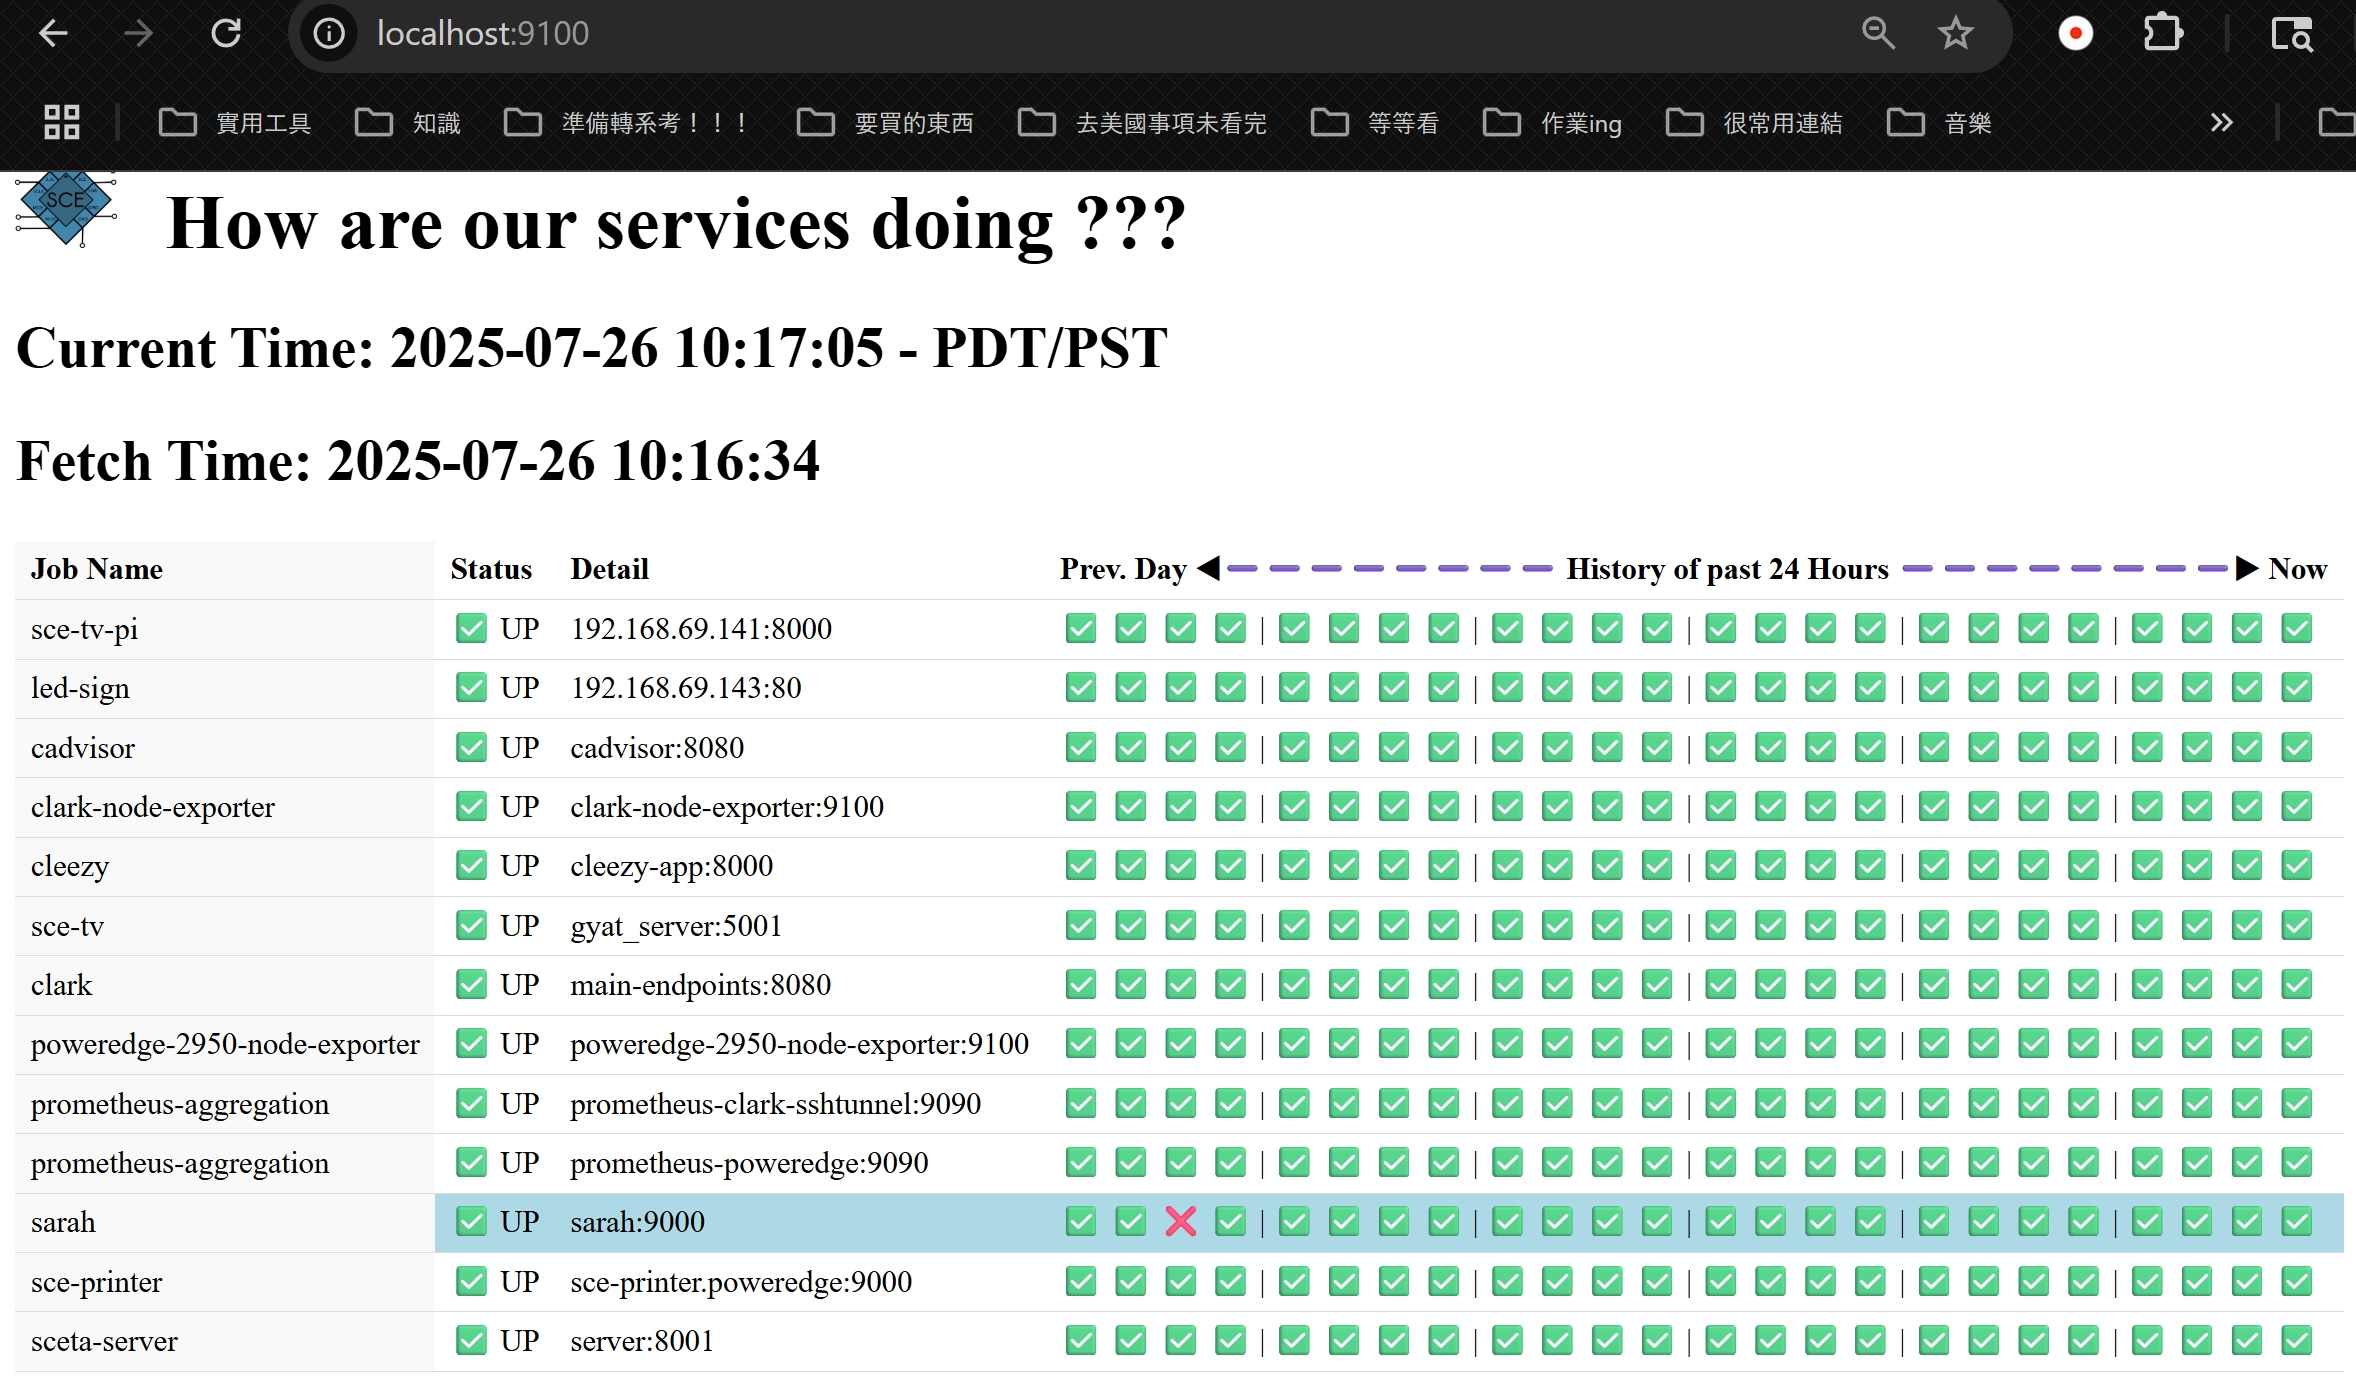
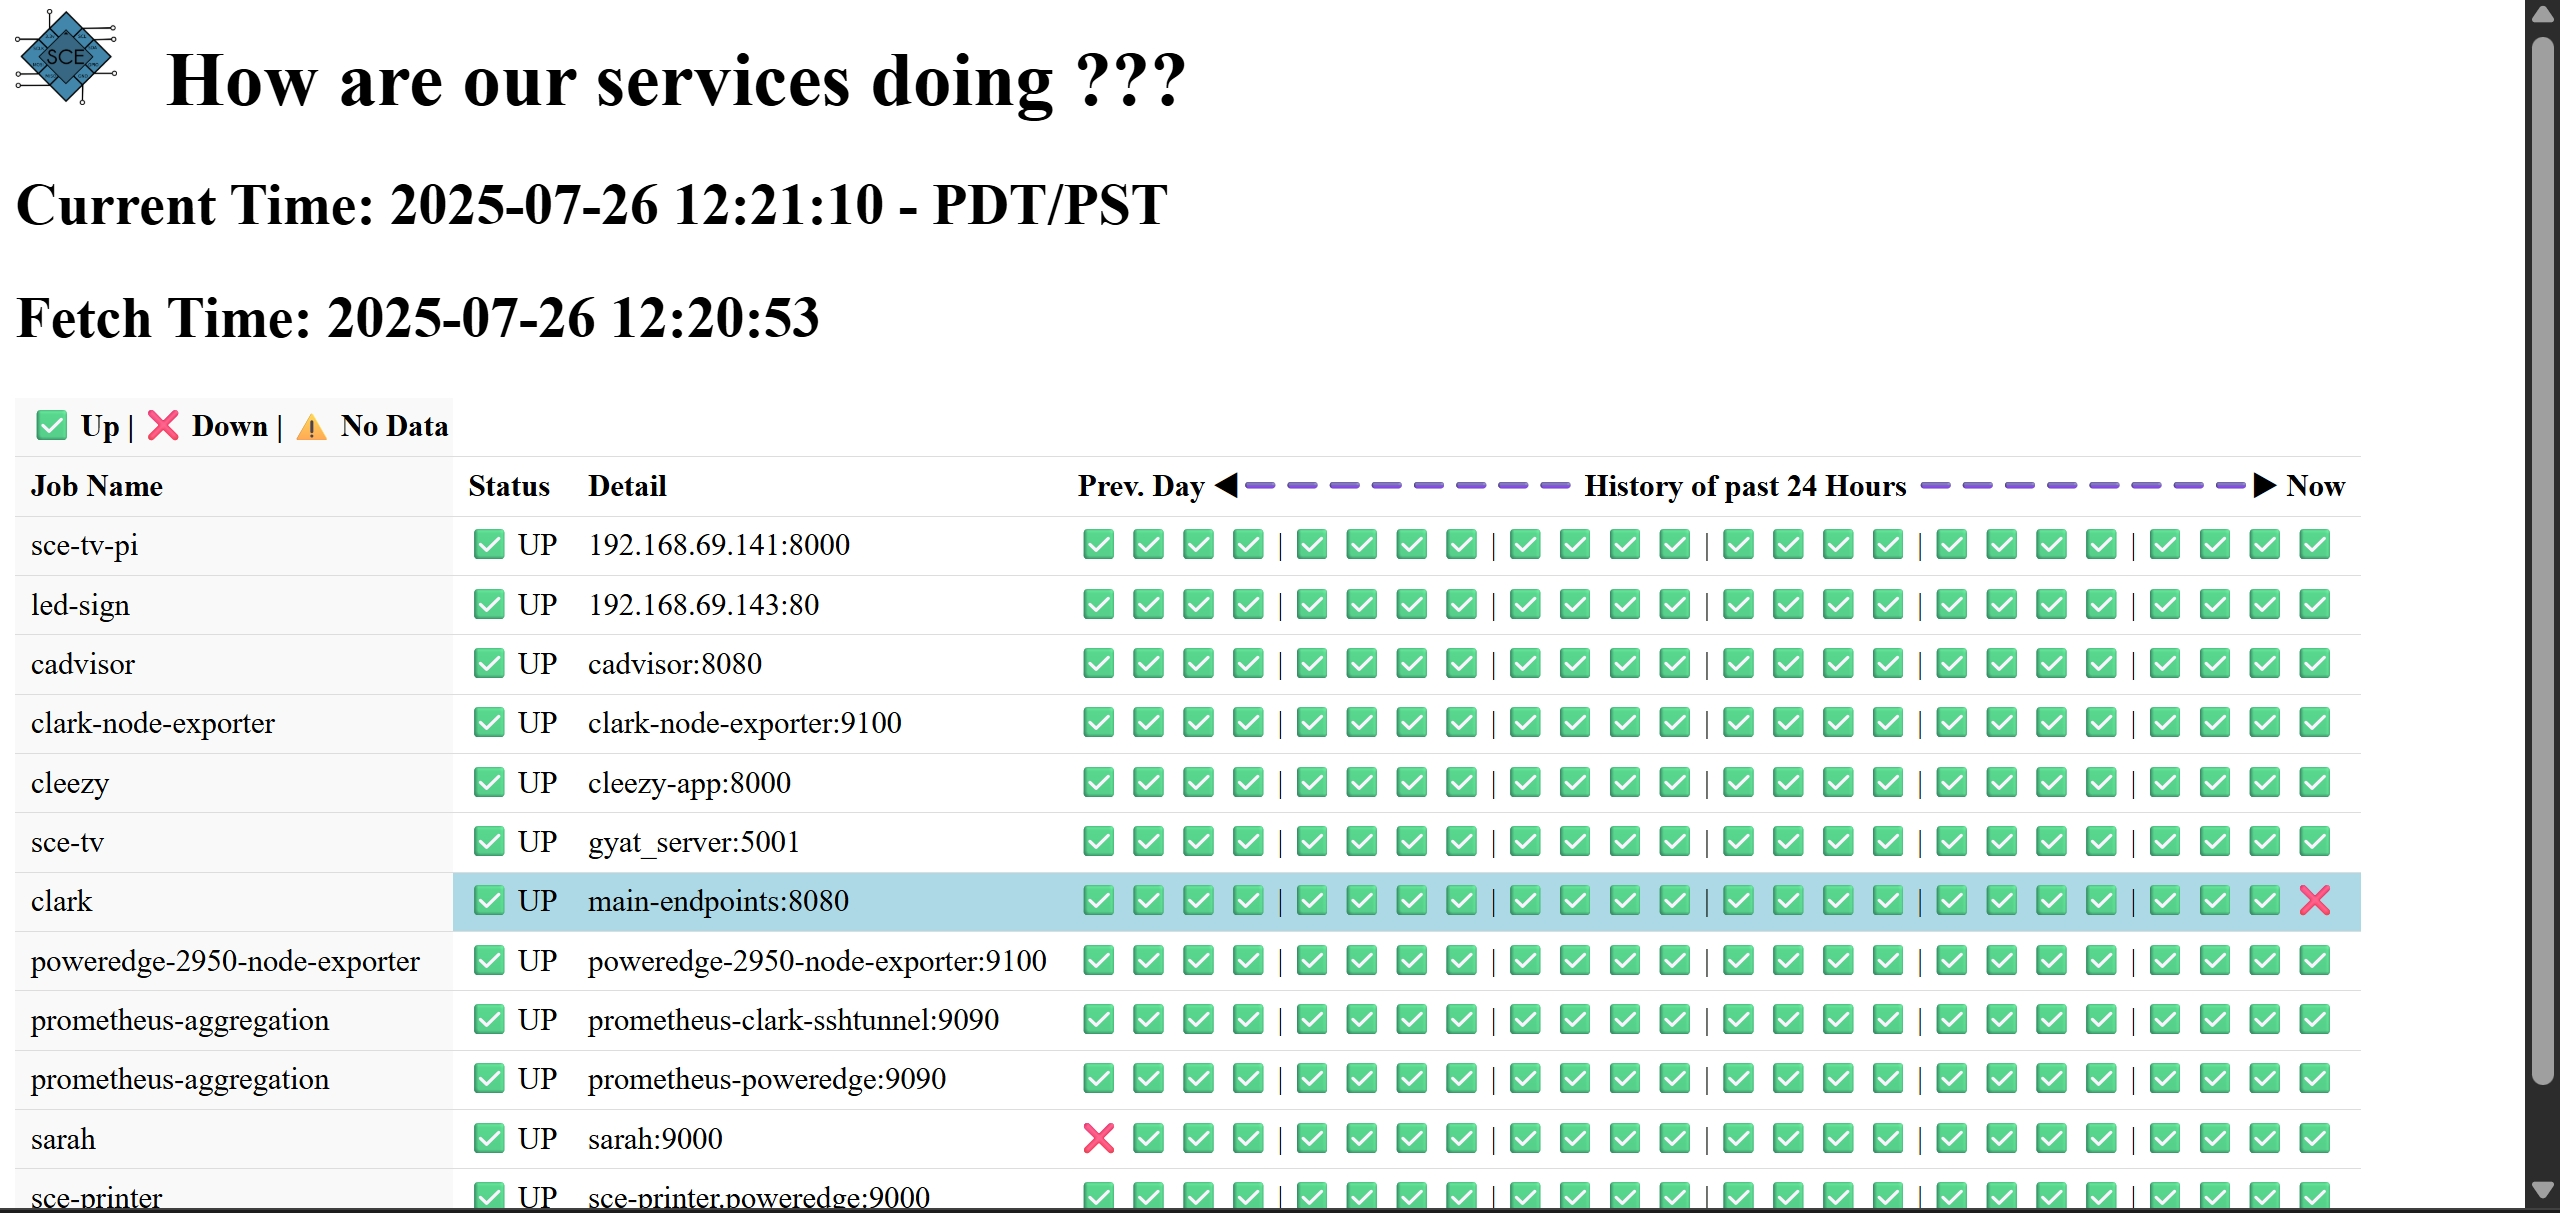
- added None value handling in server.py - added emoji description to top of the table

diff --git a/system_status/templates/my_template.html b/system_status/templates/my_template.html
@@ -110,6 +110,7 @@
     <div id="outside_container">
         <div id="current_data_container">
             <table id="status_table">
+                <tr><th class="sticky-col" style="text-align: left; padding-right: 2px">✅ Up | ❌ Down | ⚠ No Data</th></tr>
                 <tr>
                     <th class="sticky-col" style="text-align: left; padding-right: 2px">Job Name</th>
                     <th style="text-align: left; padding-right: 2px">Status</th>

diff --git a/system_status/server.py b/system_status/server.py
@@ -1,14 +1,16 @@
 import argparse
-
-from urllib.parse import urljoin
-from fastapi import FastAPI, Request
-from fastapi.middleware.cors import CORSMiddleware
-from datetime import datetime, timedelta, timezone
 import uvicorn
 import requests
-from starlette.staticfiles import StaticFiles
+
+from urllib.parse import urljoin
+
+from fastapi import FastAPI, Request
+from fastapi.middleware.cors import CORSMiddleware
 from fastapi.responses import HTMLResponse
 from fastapi.templating import Jinja2Templates
+from fastapi.staticfiles import StaticFiles
+
+from datetime import datetime, timedelta
 from zoneinfo import ZoneInfo
 
 app = FastAPI()
